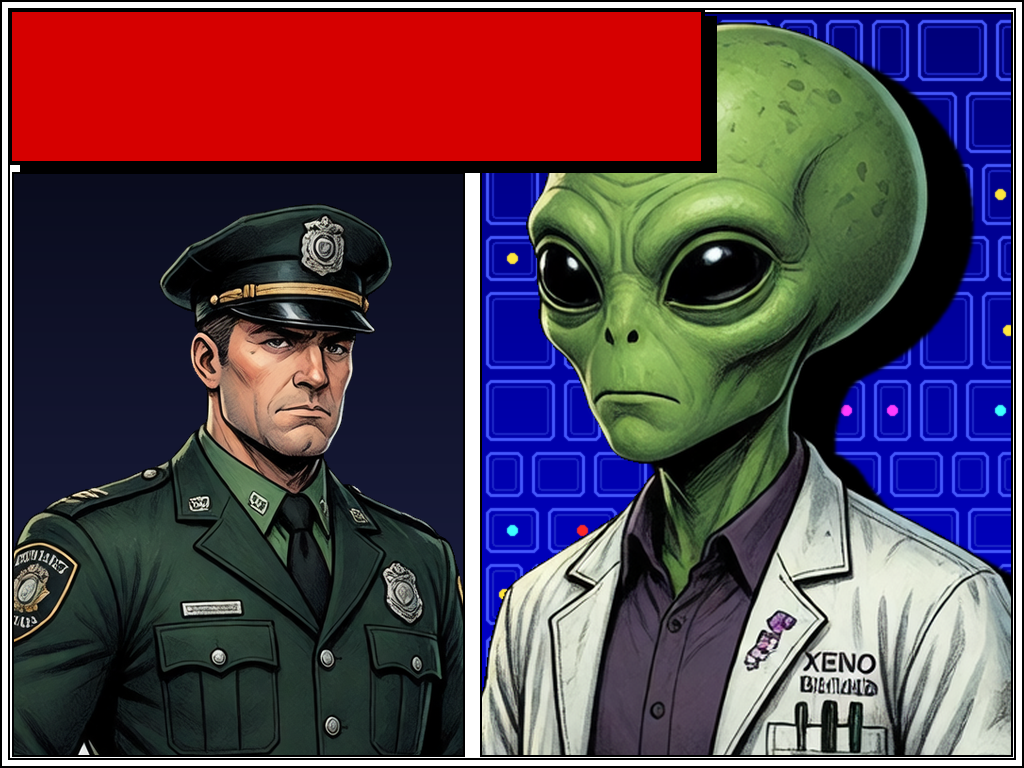
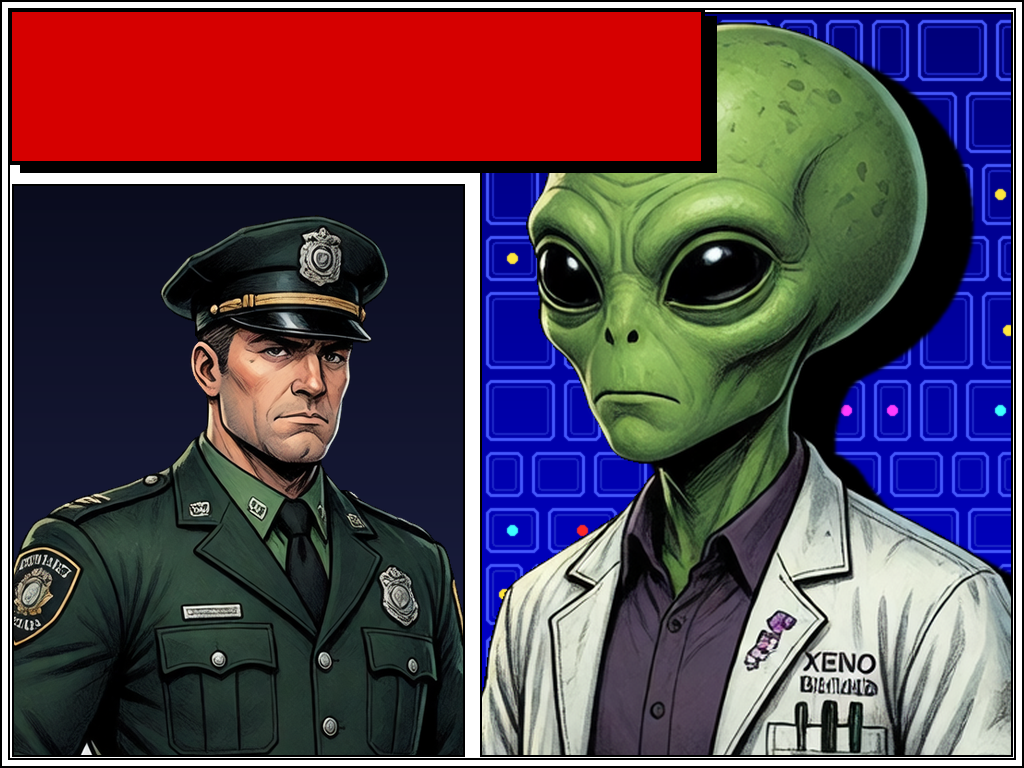
Title picture: a white line under the plaque; the splash goes on space, enter or escape

Changed region(s): [[0.0, 0.2188, 0.4688, 1.0], [0.0625, 0.9688, 0.0938, 1.0]]

diff --git a/js/game.js b/js/game.js
@@ -1181,8 +1181,8 @@ function drawSplash(ctx) {
   if (Math.floor(state.phase * 2) % 2) {
     ctx.font = `bold ${Math.round(6 * k)}px "Liberation Sans", Arial, sans-serif`;
     ctx.lineWidth = 3 * k / 4; ctx.strokeStyle = C.black; ctx.fillStyle = C.bwhite;
-    ctx.strokeText(tx(["PRESS ANY KEY"])[0], 60 * k, 184 * k);
-    ctx.fillText(tx(["PRESS ANY KEY"])[0], 60 * k, 184 * k);
+    ctx.strokeText(tx(["PRESS SPACE"])[0], 60 * k, 184 * k);
+    ctx.fillText(tx(["PRESS SPACE"])[0], 60 * k, 184 * k);
   }
   ctx.restore();
 }
@@ -1234,7 +1234,7 @@ function frame(now) {
   state.phase += dt;
 
   if (state.mode === "splash") {
-    if (Object.keys(tapped).length) { state.mode = "title"; menu.t = 0; }
+    if (tapped.Space || tapped.Enter || tapped.Escape) { state.mode = "title"; menu.t = 0; }
   } else if (state.mode === "title") {
     updateMenu(dt);
     if (tapped.Enter || tapped.Space) beginIntro();

diff --git a/js/story.js b/js/story.js
@@ -58,7 +58,7 @@ const STORY = {
   "CURSOR KEYS AND SPACE": ["СТРЕЛКИ И ПРОБЕЛ"],
   "STORY: DAN DARE": ["СЮЖЕТ: МЕНТ ДЭР"],
   "PRESS 'ENTER' WHEN DONE.": ["ГОТОВО - ЖМИ 'ENTER'."],
-  "PRESS ANY KEY": ["НАЖМИ ЛЮБУЮ КЛАВИШУ"],
+  "PRESS SPACE": ["НАЖМИ ПРОБЕЛ"],
 };
 
 /** The lines to show: the original's, or the story's version of them when

diff --git a/tools/make_title.py b/tools/make_title.py
@@ -113,7 +113,7 @@ def main():
     page.paste(right, (rx0, ry0))
 
     # Dan's panel, left, under the plaque
-    lx0, ly0, lx1, ly1 = 3 * K, 43 * K, 116 * K, 189 * K
+    lx0, ly0, lx1, ly1 = 3 * K, 46 * K, 116 * K, 189 * K       # a white line below the plaque's shadow
     left = Image.new("RGB", (lx1 - lx0, ly1 - ly0))
     pd = ImageDraw.Draw(left)
     for y in range(left.height):
